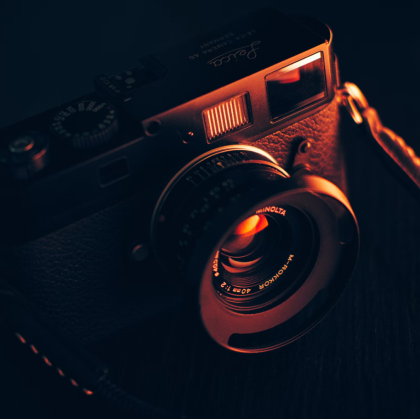
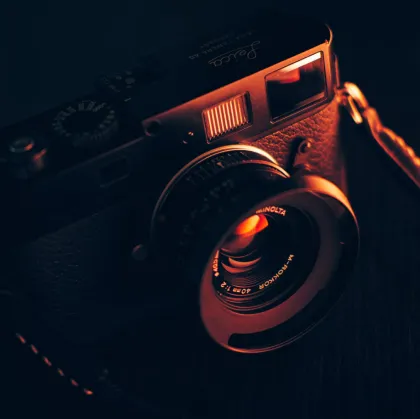
reduce size image and add width and height to some images

diff --git a/index.html b/index.html
@@ -24,7 +24,7 @@
 			<li><a href="#gallery">Galerie</a></li>
 			<li><a href="#services">Service</a></li>
 			<li><a href="#contact">Contact</a></li>
-			<li><a class="social-link" href="https://www.instagram.com/ninacarducci.photo/?hl=fr" target="_blank"><img src="assets/images/instagram.webp" alt="Logo d'Instagram"></a></li>
+			<li><a class="social-link" href="https://www.instagram.com/ninacarducci.photo/?hl=fr" target="_blank"><img class="instagram-logo" src="assets/images/instagram.webp" alt="Logo d'Instagram"></a></li>
 		</ul>
 	</div>
 </div>
@@ -37,13 +37,13 @@
 		</div>
 		<div class="carousel-inner">
 			<div class="carousel-item active">
-				<img src="./assets/images/slider/ryoji-iwata-wUZjnOv7t0g-unsplash.webp" class="d-block w-100" alt="Photo d'un homme sur un passage piéton">
+				<img src="./assets/images/slider/ryoji-iwata-wUZjnOv7t0g-unsplash.webp" class="d-block w-100 slide-image" alt="Photo d'un homme sur un passage piéton">
 			</div>
 			<div class="carousel-item">
-				<img src="./assets/images/slider/nicholas-green-nPz8akkUmDI-unsplash.webp" class="d-block w-100" alt="Photo d'une foule">
+				<img src="./assets/images/slider/nicholas-green-nPz8akkUmDI-unsplash.webp" class="d-block w-100 slide-image" alt="Photo d'une foule">
 			</div>
 			<div class="carousel-item">
-				<img src="./assets/images/slider/edward-cisneros-3_h6-1NPDGw-unsplash.webp" class="d-block w-100" alt="Photo d'un couple qui s'embrasse">
+				<img src="./assets/images/slider/edward-cisneros-3_h6-1NPDGw-unsplash.webp" class="d-block w-100 slide-image" alt="Photo d'un couple qui s'embrasse">
 			</div>
 		</div>
 		<button class="carousel-control-prev" type="button" data-bs-target="#carouselExampleIndicators" data-bs-slide="prev">
@@ -58,7 +58,7 @@
 </div>
 <div id="about">
 	<div class="picture left">
-		<img src="./assets/images/nina.webp" alt="Photo de Nina Carducci">
+		<img class="nina-image" src="./assets/images/nina.webp" alt="Photo de Nina Carducci">
 	</div>
 	<div id="about-me">
 		<h2 class="about-me__title">A propos de moi</h2>
@@ -151,7 +151,7 @@
 			</form>
 		</div>
 		<div class="picture right">
-			<img src="./assets/images/camera.webp" alt="Photo d'une caméra">
+			<img class="camera-image" src="./assets/images/camera.webp" alt="Photo d'une caméra">
 		</div>
 	</div>
 </div>

diff --git a/assets/style.css b/assets/style.css
@@ -42,6 +42,16 @@ body {
 	width: 20px;
 }
 
+.instagram-logo {
+	width: 100%;
+	height: 100%;
+}
+
+.slide-image {
+	width: 100%;
+	height: 100%;
+}
+
 #about {
 	display: flex;
 	background-color: #F6D2B8;
@@ -69,8 +79,13 @@ body {
 
 .picture img {
 	width: 100%;
-
 }
+
+.nina-image {
+	width: 100%;
+	height: 100%;
+}
+
 #about-me {
 	flex: 2
 }
@@ -98,7 +113,7 @@ body {
 }
 .nav-pills .nav-link.active, .nav-pills .show > .nav-link {
 	color: #fff;
-	background-color: #BEB45A;
+	background-color: #7D7630;
 	border-radius:0 ;
 }
 .nav-pills .nav-link {
@@ -238,6 +253,11 @@ form textarea {
 input[type="submit"] {
 	background-color: #BEB45A;
 	padding: .5em 1em
+}
+
+.camera-image {
+	width: 100%;
+	height: 100%;
 }
 
 @media all and (max-width: 1180px) {
